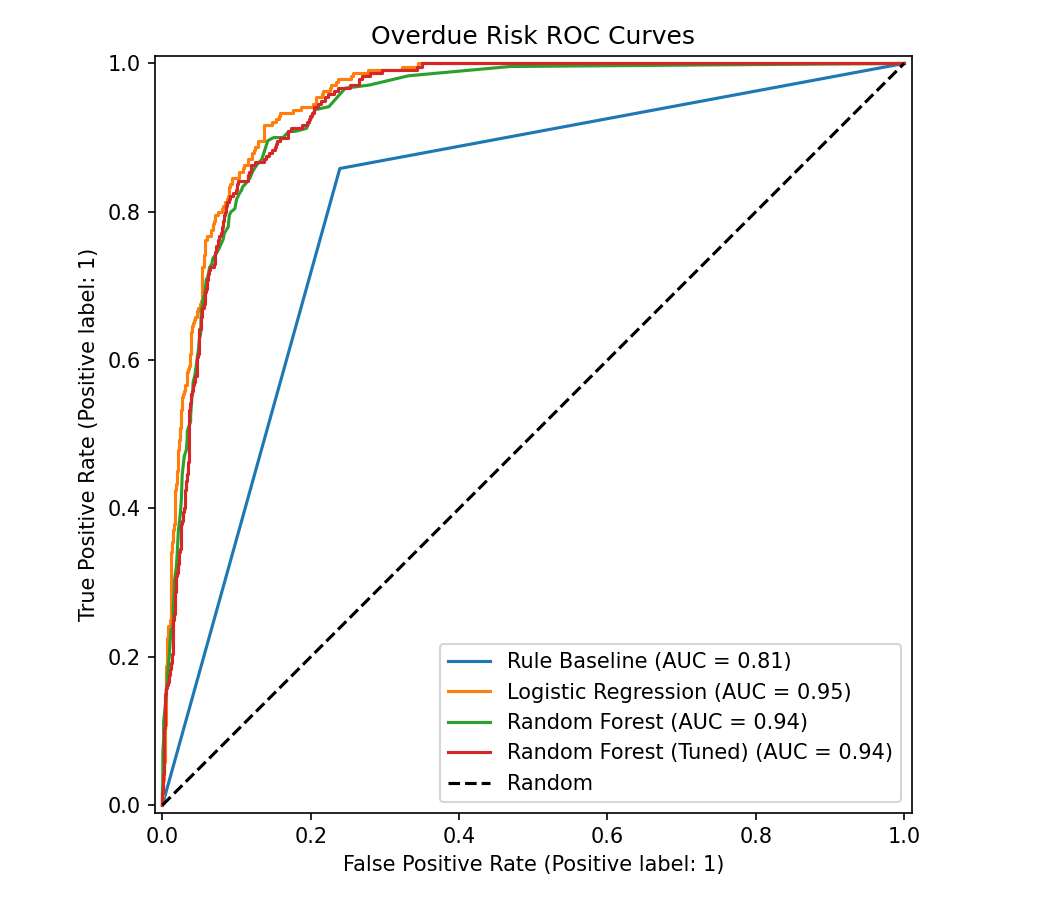
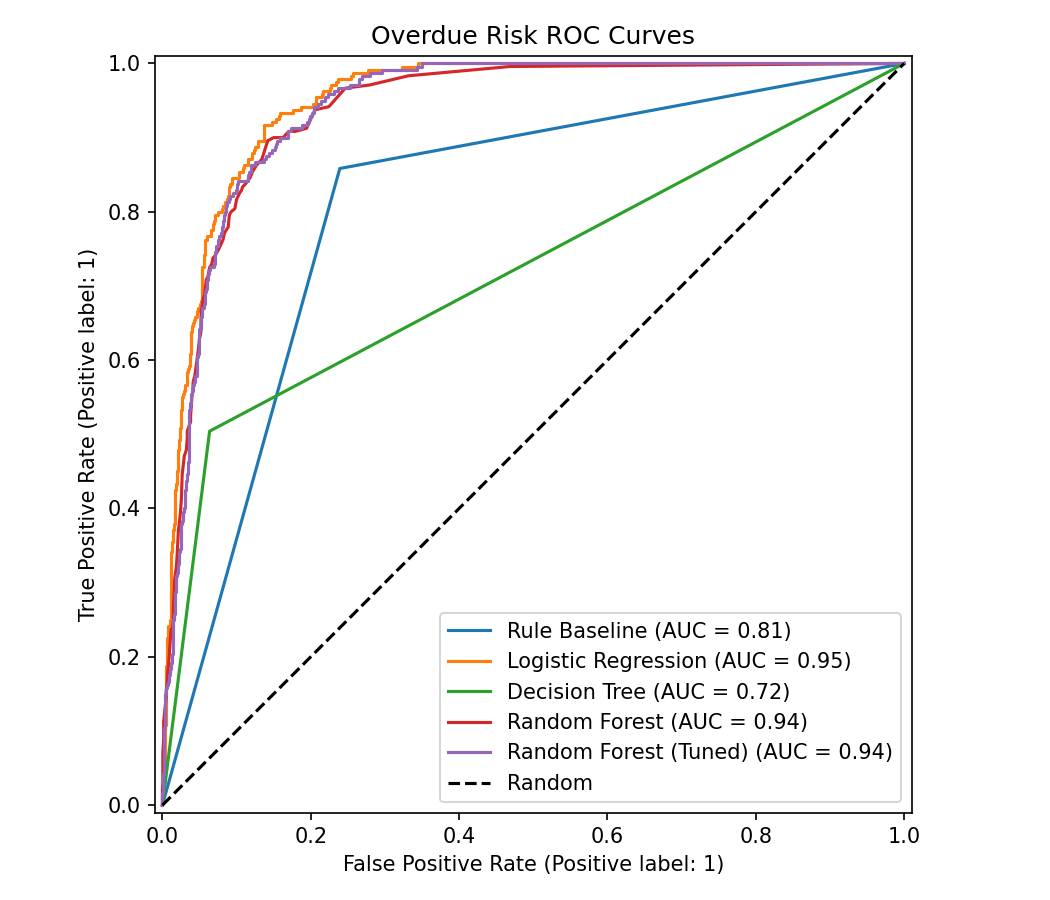
feat(classification): compare single tree baseline

diff --git a/credit_risk/classification.py b/credit_risk/classification.py
@@ -5,6 +5,7 @@ from time import perf_counter
 import numpy as np
 import pandas as pd
 from sklearn.base import clone
+from sklearn.tree import DecisionTreeClassifier
 from sklearn.ensemble import RandomForestClassifier
 from sklearn.linear_model import LogisticRegression
 from sklearn.metrics import (
@@ -29,6 +30,7 @@ from credit_risk.constants import (
     CV_FOLDS,
     DEBT_RATIO_COLUMN,
     DEFAULT_CLASSIFICATION_THRESHOLD as DEFAULT_THRESHOLD,
+    DECISION_TREE_MODEL,
     LOGISTIC_REGRESSION_MODEL,
     OVERDUE_COUNT_COLUMN,
     RANDOM_FOREST_MODEL,
@@ -407,6 +409,18 @@ def train_classification(
             ),
         ]
     )
+    decision_tree = Pipeline(
+        [
+            ("preprocessor", build_preprocessor()),
+            (
+                "model",
+                DecisionTreeClassifier(
+                    class_weight="balanced",
+                    random_state=RANDOM_STATE,
+                ),
+            ),
+        ]
+    )
     forest = Pipeline(
         [
             ("preprocessor", build_preprocessor()),
@@ -438,6 +452,7 @@ def train_classification(
     )
     logistic = logistic.set_params(model__C=selected_logistic_c)
     logistic.fit(x_train, y_train)
+    decision_tree.fit(x_train, y_train)
     forest.fit(x_train, y_train)
 
     if grid is not None:
@@ -523,11 +538,13 @@ def train_classification(
 
     rule_predictions = x_test.apply(rule_based_predict, axis=1).to_numpy()
     logistic_scores = logistic.predict_proba(x_test)[:, 1]
+    decision_tree_scores = decision_tree.predict_proba(x_test)[:, 1]
     forest_scores = forest.predict_proba(x_test)[:, 1]
     tuned_scores = tuned_forest.predict_proba(x_test)[:, 1]
     logistic_predictions = (
         logistic_scores >= SELECTED_LOGISTIC_THRESHOLD
     ).astype(int)
+    decision_tree_predictions = (decision_tree_scores >= DEFAULT_THRESHOLD).astype(int)
     forest_predictions = (forest_scores >= DEFAULT_THRESHOLD).astype(int)
     tuned_predictions = (
         tuned_scores >= SELECTED_RANDOM_FOREST_THRESHOLD
@@ -540,6 +557,9 @@ def train_classification(
         LOGISTIC_REGRESSION_MODEL: _average_latency_ms(
             lambda: logistic.predict_proba(latency_batch)
         ),
+        DECISION_TREE_MODEL: _average_latency_ms(
+            lambda: decision_tree.predict_proba(latency_batch)
+        ),
         RANDOM_FOREST_MODEL: _average_latency_ms(
             lambda: forest.predict_proba(latency_batch)
         ),
@@ -550,12 +570,14 @@ def train_classification(
     predictions = {
         RULE_BASELINE_MODEL: rule_predictions,
         LOGISTIC_REGRESSION_MODEL: logistic_predictions,
+        DECISION_TREE_MODEL: decision_tree_predictions,
         RANDOM_FOREST_MODEL: forest_predictions,
         TUNED_RANDOM_FOREST_MODEL: tuned_predictions,
     }
     scores = {
         RULE_BASELINE_MODEL: rule_predictions.astype(float),
         LOGISTIC_REGRESSION_MODEL: logistic_scores,
+        DECISION_TREE_MODEL: decision_tree_scores,
         RANDOM_FOREST_MODEL: forest_scores,
         TUNED_RANDOM_FOREST_MODEL: tuned_scores,
     }
@@ -574,6 +596,8 @@ def train_classification(
             "rule_prediction": rule_predictions,
             "logistic_probability": logistic_scores,
             "logistic_prediction_selected": logistic_predictions,
+            "decision_tree_probability": decision_tree_scores,
+            "decision_tree_prediction": decision_tree_predictions,
             "random_forest_probability": forest_scores,
             "overdue_probability": tuned_scores,
             "tuned_rf_prediction_selected": tuned_predictions,

diff --git a/credit_risk/constants.py b/credit_risk/constants.py
@@ -49,6 +49,7 @@ CREDIT_SCORE_MAX = 1000
 DEFAULT_CLASSIFICATION_THRESHOLD = 0.5
 RULE_BASELINE_MODEL = "Rule Baseline"
 LOGISTIC_REGRESSION_MODEL = "Logistic Regression"
+DECISION_TREE_MODEL = "Decision Tree"
 RANDOM_FOREST_MODEL = "Random Forest"
 TUNED_RANDOM_FOREST_MODEL = "Random Forest (Tuned)"
 RIDGE_MODEL = "Ridge"

diff --git a/README.md b/README.md
@@ -2,7 +2,7 @@
 
 [![Tests](https://github.com/shannonlee-dev/credit-risk-modeling-pipeline/actions/workflows/tests.yml/badge.svg)](https://github.com/shannonlee-dev/credit-risk-modeling-pipeline/actions/workflows/tests.yml)
 
-10,000건의 재현 가능한 가상 금융 데이터를 사용해, 규칙 기반 분류와 로지스틱 회귀·랜덤 포레스트, 그리고 리지·라쏘 회귀를 비교하는 지도학습 포트폴리오 프로젝트입니다.
+10,000건의 재현 가능한 가상 금융 데이터를 사용해, 규칙 기반 분류와 로지스틱 회귀·단일 의사결정트리·랜덤 포레스트, 그리고 리지·라쏘 회귀를 비교하는 지도학습 포트폴리오 프로젝트입니다.
 
 ## 범위
 
@@ -27,7 +27,7 @@ uv run python -m pytest -v
 
 ## 평가 대상
 
-- 분류: 여섯 규칙 기반 기준선, 클래스 가중치를 적용한 로지스틱 회귀, 기본·튜닝 랜덤 포레스트
+- 분류: 여섯 규칙 기반 기준선, 클래스 가중치를 적용한 로지스틱 회귀·단일 의사결정트리, 기본·GridSearchCV 튜닝 랜덤 포레스트
 - 회귀: 리지·라쏘의 alpha 민감도와 holdout RMSE·MAE·R²
 - 평가: 고정 80:20 학습·테스트 분할, 학습 데이터 내부 5-fold CV, Pipeline 내부 중앙값 대치와 스케일링
 
@@ -39,6 +39,7 @@ uv run python -m pytest -v
 | --- | ---: | ---: | ---: |
 | Rule Baseline | 0.7725 | 0.4752 | 0.8096 |
 | Logistic Regression (threshold 0.45) | 0.8515 | 0.6013 | 0.9505 |
+| Decision Tree (baseline threshold 0.50) | 0.8845 | 0.5116 | 0.7203 |
 | Random Forest | 0.9095 | 0.5820 | 0.9376 |
 | Random Forest (Tuned, threshold 0.33) | 0.8365 | 0.5725 | 0.9405 |
 
@@ -47,6 +48,8 @@ uv run python -m pytest -v
 - [Generative structure analysis](docs/generative_analysis.md) — synthetic data의 실제 생성식을 모델이 얼마나 복원했는지 분석
 
 규칙 기반 기준선보다 로지스틱 회귀는 F1을 `0.4752 → 0.6013`, ROC-AUC를 `0.8096 → 0.9505`로 높였습니다. 비슷한 OOF Recall 조건으로 맞춘 선택 threshold에서는 Logistic이 Tuned RF보다 Precision과 F1이 높아 최종 분류 모델로 선택했습니다.
+
+단일 의사결정트리와 비교하면, GridSearchCV로 튜닝한 Random Forest는 holdout F1을 `0.5116 → 0.5725`(+`0.0609`), ROC-AUC를 `0.7203 → 0.9405`(+`0.2202`)로 높였습니다. Tuned RF의 Accuracy는 낮지만, 이는 기본 0.50 대신 Recall을 높이기 위해 선택한 0.33 threshold의 영향도 있으므로 Accuracy만으로 두 모델의 우열을 판단하지 않습니다.
 
 ![분류 ROC-AUC 비교](artifacts/roc_curve.png)
 
@@ -114,7 +117,7 @@ tests/                         # 동작 중심 회귀 테스트
 
 ## 앙상블 모델 해석
 
-Random Forest는 여러 트리의 예측을 결합해 단일 트리의 분산을 낮추고 비선형 상호작용을 포착할 수 있습니다. 다만 이 가상 데이터의 위험 구조는 비교적 선형적이어서, Train 5-fold CV ROC-AUC는 Logistic `0.9539`, Tuned RF `0.9480`이었습니다. 비슷한 OOF Recall 조건에서도 Logistic의 F1이 `0.6058`로 RF의 `0.5890`보다 높아, 더 단순한 Logistic을 최종 모델로 선택했습니다.
+Random Forest는 여러 트리의 예측을 결합해 단일 트리의 분산을 낮추고 비선형 상호작용을 포착할 수 있습니다. 같은 holdout에서 단일 의사결정트리의 F1/ROC-AUC는 `0.5116`/`0.7203`이었고, GridSearchCV 튜닝 Random Forest는 `0.5725`/`0.9405`였습니다. 즉 앙상블은 단일 트리보다 F1을 `0.0609`, ROC-AUC를 `0.2202` 높였습니다. 다만 이 가상 데이터의 위험 구조는 비교적 선형적이어서, Train 5-fold CV ROC-AUC는 Logistic `0.9539`, Tuned RF `0.9480`이었습니다. 비슷한 OOF Recall 조건에서도 Logistic의 F1이 `0.6058`로 RF의 `0.5890`보다 높아, 더 단순한 Logistic을 최종 모델로 선택했습니다.
 
 ## 불균형 처리 선택
 
